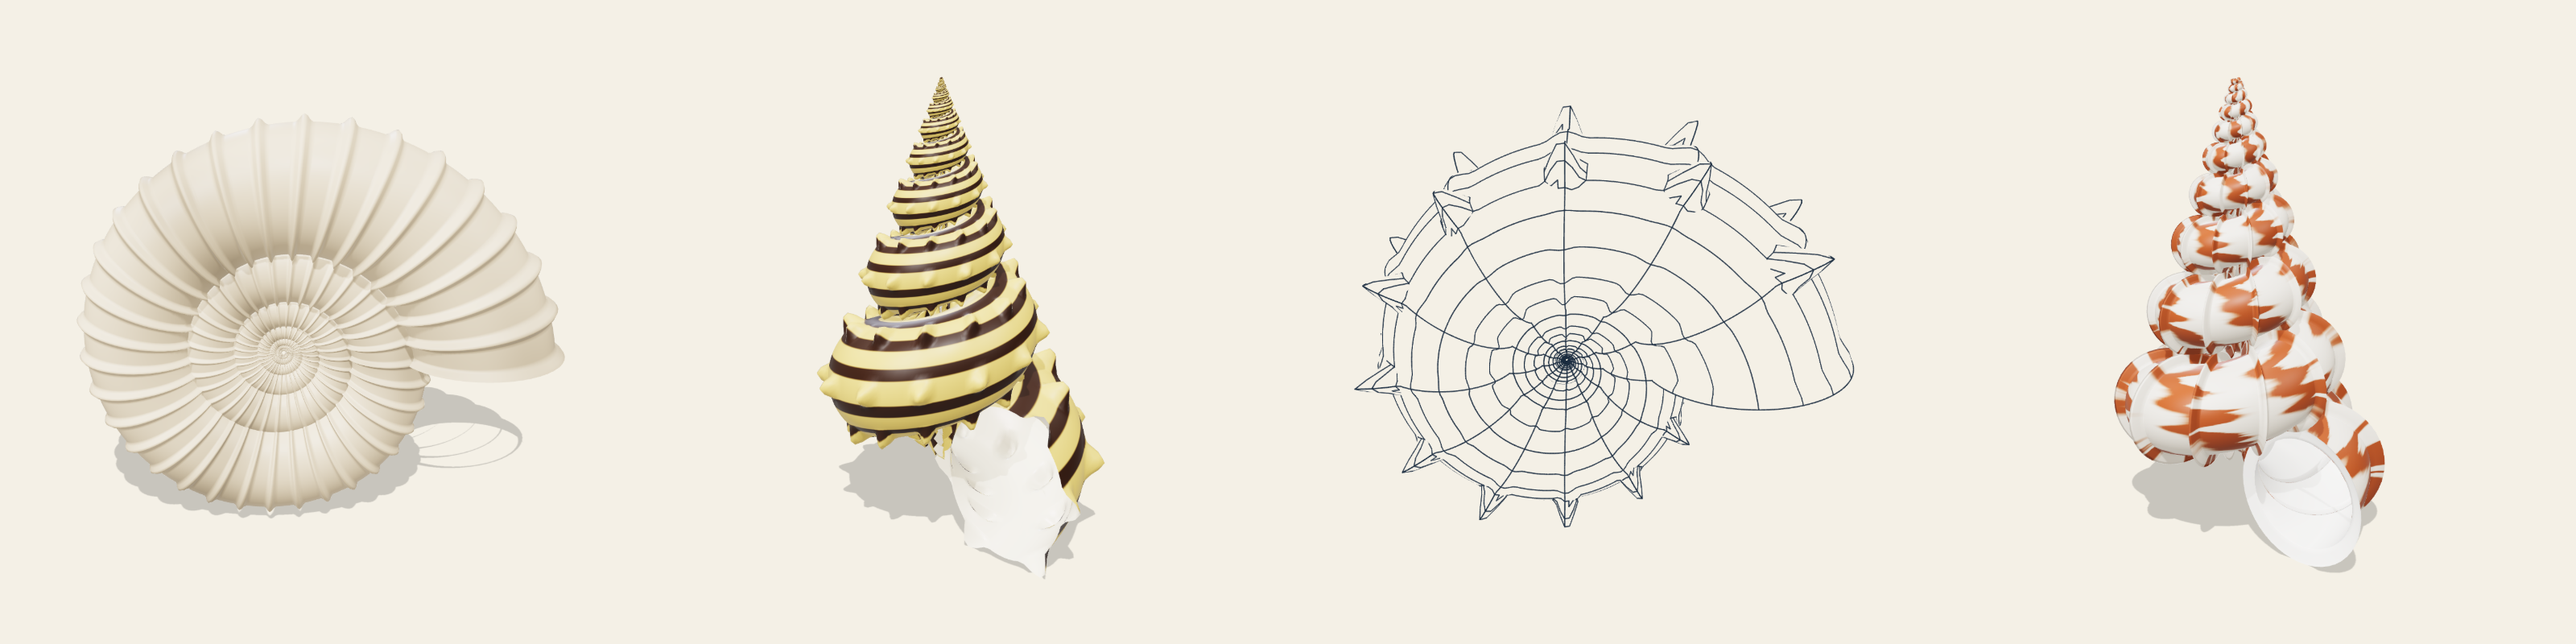
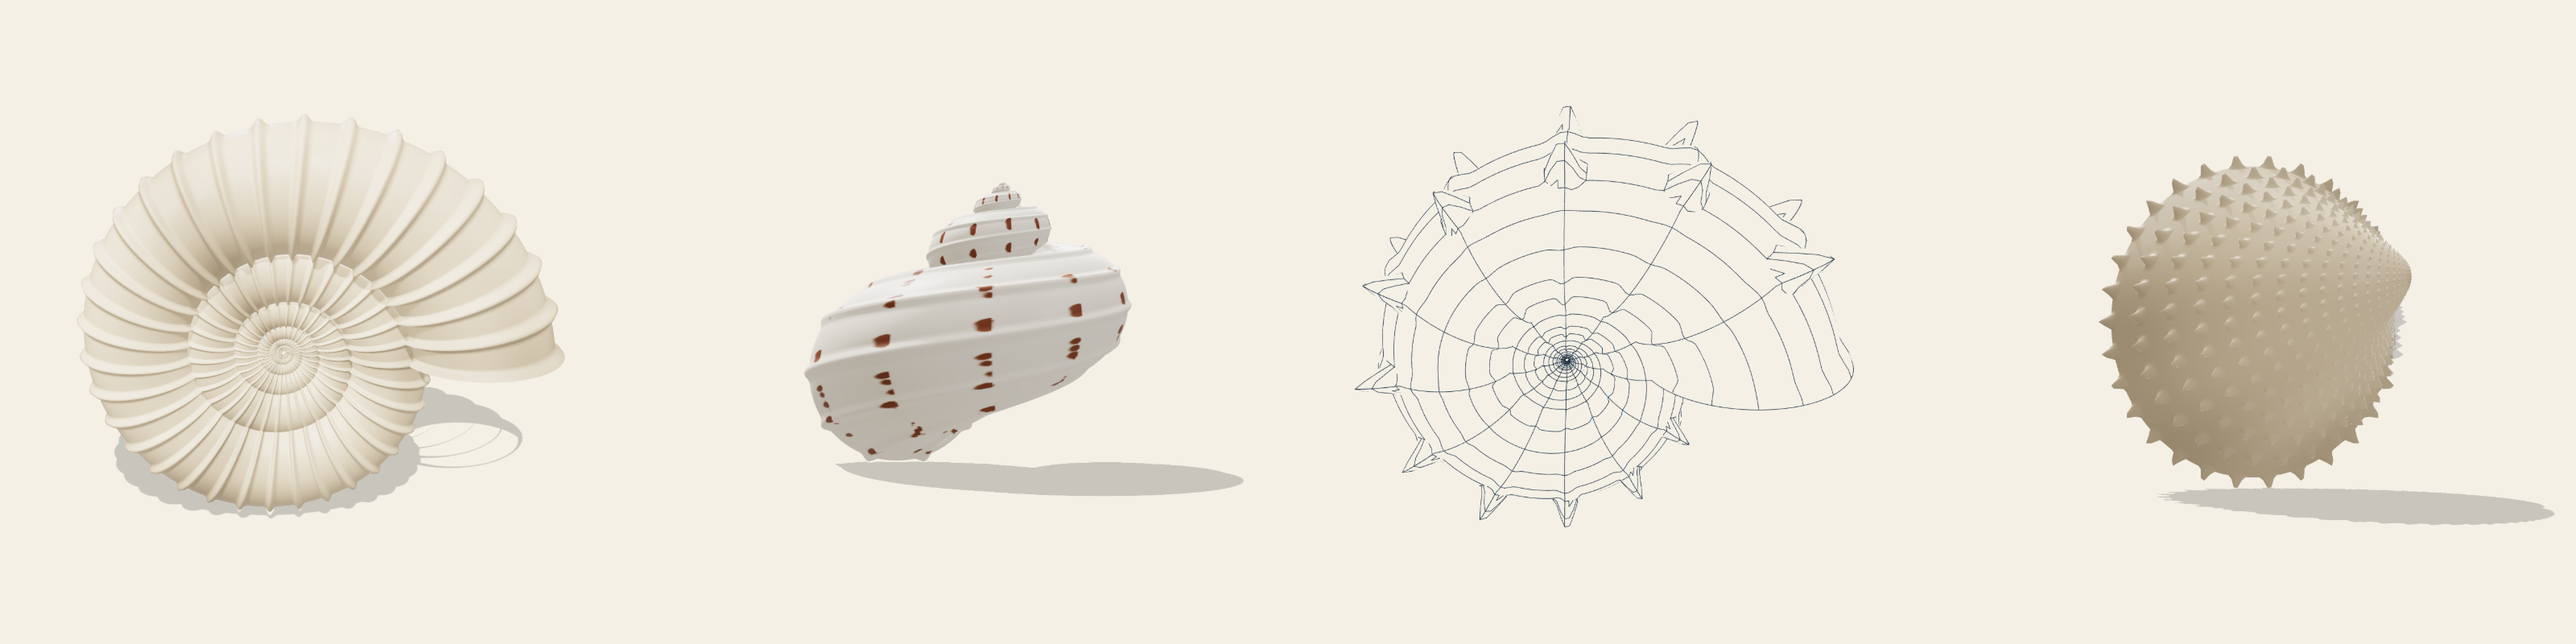
Imágenes del README: creador en líneas, cuatro conchas con Naticarius y bivalvo reticulado, pigmentación en 3/4 e informe actualizado

diff --git a/docs/README.es.md b/docs/README.es.md
@@ -27,7 +27,7 @@ Al cerrar la guía, la app muestra un caracol de jardín dibujado con líneas, l
 
 **Crea tu propia concha**, el botón de arriba de la barra lateral, abre una ventana que recorre cinco pasos con controles simplificados: forma, ornamento, color, aspecto y exportación. Es la propia app, no una copia: la vista 3D se traslada a la ventana, así que deshacer, la dirección de la página y todas las exportaciones funcionan como siempre, y el último paso descarga un fondo de pantalla del tamaño de tu pantalla o la ficha en PDF.
 
-![El creador de conchas en su paso de ornamento: un ammonites con costillas y espinas a la izquierda y los deslizadores simplificados a la derecha](images/wizard.png)
+![El creador de conchas en su paso de ornamento: un ammonites con costillas y espinas dibujado con líneas a la izquierda y los deslizadores simplificados a la derecha](images/wizard.png)
 
 ## Para qué sirve
 
@@ -76,7 +76,7 @@ P*(θ, φ) = P(θ, φ) + W^(θ/2π) · a · δ(θ, φ) · n(φ)
 - Una **quilla** K es un solo cordón fuerte, y las **espinas** Σ son conos en una o dos filas.
 - f(s) permite que el relieve **se desvanezca o aparezca** a medida que crece la concha.
 
-![Cuatro conchas ornamentadas generadas con la app: un ammonites con costillas (Dactylioceras), un Cerithium con filas de nódulos y color en bandas, un ammonites con costillas y espinas dibujado con líneas, y un Epitonium con costillas laminares y rayas en llama](images/ornament.png)
+![Cuatro conchas ornamentadas generadas con la app: un ammonites con costillas (Dactylioceras), un caracol con cordones espirales y los puntos del patrón Naticarius, un ammonites con costillas y espinas dibujado con líneas, y un bivalvo de dos valvas con una retícula de costillas radiales y concéntricas y nódulos espinosos donde se cruzan](images/ornament.png)
 
 Los ejemplos cargan la forma y el relieve de conchas reales: *Epitonium clathrus*, *Turritella*, *Calliostoma*, *Cancellaria*, *Cerithium*, la concha sol *Astraea*, un ammonites con costillas (*Dactylioceras*) y otro con espinas, y un berberecho. Las conchas cuya forma no puede dibujar el modelo de Raup, como *Murex* con su largo canal sifonal, quedan fuera. Con ornamentación, el dibujo de líneas sigue el relieve, como una ilustración científica: líneas de crecimiento en las crestas de las costillas, líneas espirales en las crestas de los cordones y cada espina perfilada como un cono. El relieve aparece también en la ecuación, en la ficha PDF y en los archivos 3D. En la pestaña, costillas, cordones, espinas, quilla y cambio con el crecimiento son secciones plegables del mismo rango; al cargar un ejemplo se abren solas las que tiene esa concha.
 
@@ -98,7 +98,7 @@ El plano es un **corte del cubo W–D–T de Raup con el T actual**. Los grupos 
 
 Un molusco solo añade pigmento en el borde que crece, así que un patrón de concha es un **registro en el tiempo de un proceso unidimensional**: el espacio va a lo largo del borde y el tiempo, en la dirección de crecimiento. La app simula el borde con los modelos de reacción-difusión de Meinhardt y envuelve el registro espacio-tiempo resultante sobre la superficie de Raup, como hicieron Fowler, Meinhardt y Prusinkiewicz (1992).
 
-![Un caracol con los puntos en filas espirales del preset Naticarius, con la galería de patrones y el registro espacio-tiempo en la barra lateral y, sobre la vista 3D, el morfoespacio y el perfil del activador y el inhibidor a lo largo del borde en un instante en que los puntos están encendidos](images/pigmentation.png)
+![Un caracol en vista 3/4 con los puntos en filas espirales del preset Naticarius, con la galería de patrones y el registro espacio-tiempo en la barra lateral y, sobre la vista 3D, el morfoespacio y el perfil del activador y el inhibidor a lo largo del borde en un instante en que los puntos están encendidos](images/pigmentation.png)
 
 - **Modelo activador-inhibidor.** Un activador que se refuerza a sí mismo y un inhibidor rápido y de largo alcance dan picos estables, que dibujan bandas a lo largo de la espiral (*Cepaea nemoralis*). Si el inhibidor dura más que el activador, el borde oscila y dibuja rayas paralelas a las líneas de crecimiento (las llamas del *Nautilus*). Con las dos cosas a la vez, un inhibidor de alcance medio que además dura más que el activador, cada pico se queda en su sitio pero se enciende y se apaga, y deja una fila espiral de puntos (los *Naticarius*).
 

diff --git a/README.md b/README.md
@@ -25,7 +25,7 @@ After closing the guide, the app shows a garden snail drawn with lines, ready to
 
 **Create your own shell**, the button at the top of the sidebar, opens a window that walks through five steps with simplified controls: shape, ornament, colour, look and export. It is the app itself, not a copy: the 3D view moves into the window, so undo, the page address and every export work as usual, and the last step downloads a wallpaper the size of your screen or the PDF sheet.
 
-![The shell creator at its ornament step: an ammonite with ribs and spines on the left and the simplified sliders on the right](docs/images/wizard.png)
+![The shell creator at its ornament step: an ammonite with ribs and spines drawn with lines on the left and the simplified sliders on the right](docs/images/wizard.png)
 
 ## What it is for
 
@@ -74,7 +74,7 @@ P*(θ, φ) = P(θ, φ) + W^(θ/2π) · a · δ(θ, φ) · n(φ)
 - A **keel** K is a single strong cord, and **spines** Σ are cones in one or two rows.
 - f(s) lets the relief **fade or appear** as the shell grows.
 
-![Four ornamented shells generated by the app: a ribbed ammonite (Dactylioceras), a Cerithium with rows of nodules and banded colour, an ammonite with ribs and spines drawn with lines, and an Epitonium with lamellar ribs and flame stripes](docs/images/ornament.png)
+![Four ornamented shells generated by the app: a ribbed ammonite (Dactylioceras), a moon snail with spiral cords and the spots of the Naticarius pattern, an ammonite with ribs and spines drawn with lines, and a pair of bivalve valves with a reticulate relief of radial and concentric ribs and spiny nodules where they cross](docs/images/ornament.png)
 
 The examples load the shape and the relief of real shells: *Epitonium clathrus*, *Turritella*, *Calliostoma*, *Cancellaria*, *Cerithium*, the sun shell *Astraea*, a ribbed (*Dactylioceras*) and a spiny ammonite, and a cockle. Shells whose form Raup's model cannot draw, such as *Murex* with its long siphonal canal, are left out. With ornament, the line drawing follows the relief, like a scientific illustration: growth lines on the crests of the ribs, spiral lines on the crests of the cords, and each spine outlined as a cone. The relief also appears in the equation, the PDF sheet and the 3D files. In the tab, ribs, cords, spines, keel and change with growth are folded sections of equal rank; when an example is loaded, the ones that shell has open by themselves.
 
@@ -96,7 +96,7 @@ The plane is a **section of Raup's W–D–T cube at the current T**. The groups
 
 A mollusc only adds pigment at the growing margin, so a shell pattern is a **time record of a one-dimensional process**: space runs along the margin and time along the direction of growth. The app simulates the margin with Meinhardt's reaction–diffusion models and wraps the resulting space–time record onto Raup's surface, as Fowler, Meinhardt and Prusinkiewicz (1992) did.
 
-![A moon snail with the spots in spiral rows of the Naticarius preset, with the pattern gallery and the space–time record in the sidebar and, over the 3D view, the morphospace and the activator and inhibitor profile along the margin at a moment when the spots are switched on](docs/images/pigmentation.png)
+![A moon snail in 3/4 view with the spots in spiral rows of the Naticarius preset, with the pattern gallery and the space–time record in the sidebar and, over the 3D view, the morphospace and the activator and inhibitor profile along the margin at a moment when the spots are switched on](docs/images/pigmentation.png)
 
 - **Activator–inhibitor model.** A self-enhancing activator and a fast, far-reaching inhibitor give stable peaks, which draw bands along the spiral (*Cepaea nemoralis*). If the inhibitor outlives the activator, the margin oscillates and draws stripes parallel to the growth lines (the flames of *Nautilus*). With both at once, a medium-range inhibitor that also outlives the activator, each peak stays in place but switches on and off, and leaves a spiral row of spots (the moon snails *Naticarius*).
 
